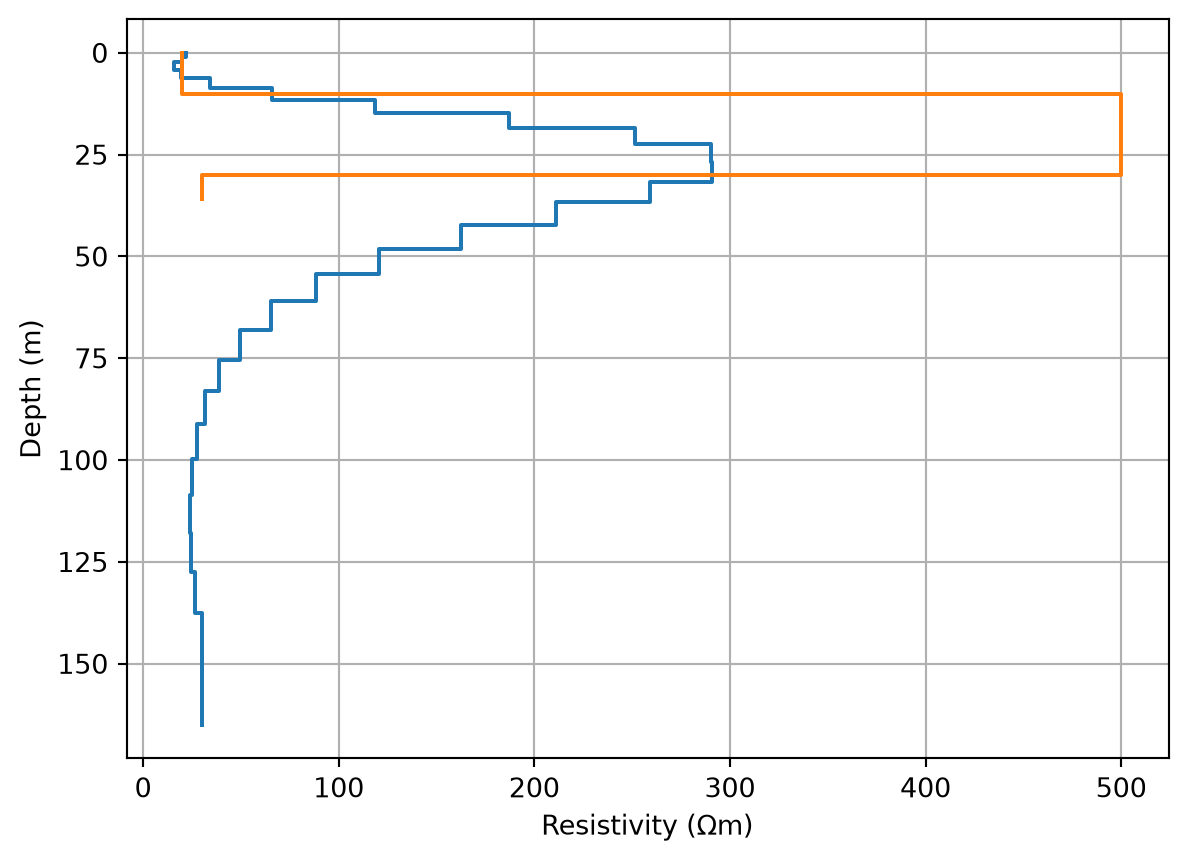
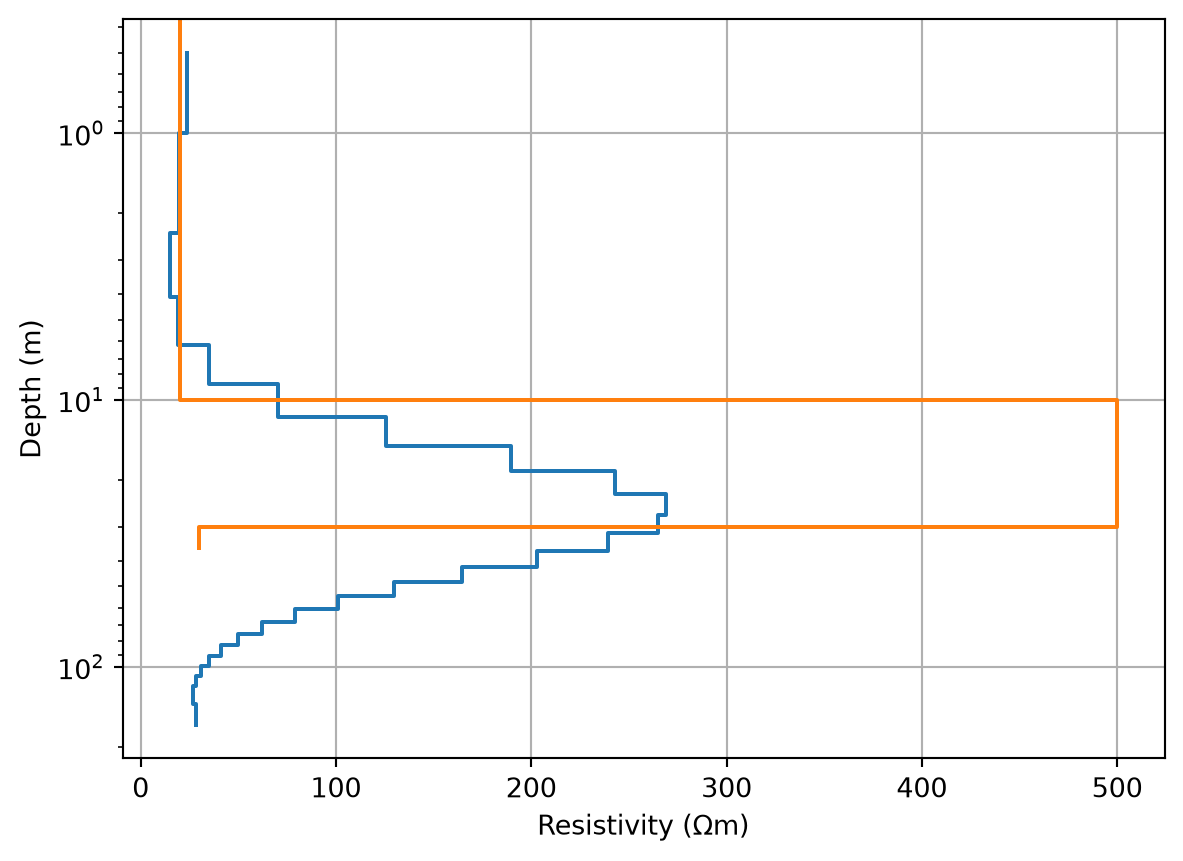
finish VES example with MRM

diff --git a/docs/13_exampleVES.html b/docs/13_exampleVES.html
@@ -351,7 +351,7 @@ window.Quarto = {
 <li><code>VESModelling</code> uses a block discretization of (few) <span class="math inline">\(N\)</span> layer resistivities preceded by N-1 thickness values</li>
 <li><code>VESRhoModelling</code> uses a fixed (many) layer discretization that is adressed by smoothness constraints</li>
 </ul>
-<div id="bf2e42b5" class="cell" data-execution_count="3">
+<div id="5b4cddac" class="cell" data-execution_count="2">
 <details class="code-fold">
 <summary>Show the code</summary>
 <div class="code-copy-outer-scaffold"><div class="sourceCode cell-code" id="cb1"><pre class="sourceCode python code-with-copy"><code class="sourceCode python"><span id="cb1-1"><a href="#cb1-1" aria-hidden="true" tabindex="-1"></a><span class="im">from</span> pygimli.physics.ves <span class="im">import</span> VESModelling, VESRhoModelling</span>
@@ -362,7 +362,7 @@ window.Quarto = {
 <section id="the-synthetic-model" class="level2" data-number="12.1">
 <h2 data-number="12.1" class="anchored" data-anchor-id="the-synthetic-model"><span class="header-section-number">12.1</span> The synthetic model</h2>
 <p>The experiment comprises a VES sounding with AB/2 values between 6m and 1km. The synthetic model consist of a 20m thick bad conductor embedded in rather conductive halfspace with 10m overburden. Gaussian noise with a relative error model of 3% is added to the data.</p>
-<div id="9757c880" class="cell" data-execution_count="4">
+<div id="10307f8d" class="cell" data-execution_count="3">
 <details class="code-fold">
 <summary>Show the code</summary>
 <div class="code-copy-outer-scaffold"><div class="sourceCode cell-code" id="cb2"><pre class="sourceCode python code-with-copy"><code class="sourceCode python"><span id="cb2-1"><a href="#cb2-1" aria-hidden="true" tabindex="-1"></a>ab2 <span class="op">=</span> np.logspace(<span class="fl">0.5</span>, <span class="dv">3</span>, <span class="dv">30</span>)</span>
@@ -374,10 +374,10 @@ window.Quarto = {
 <span id="cb2-7"><a href="#cb2-7" aria-hidden="true" tabindex="-1"></a><span class="bu">print</span>(data)</span></code></pre></div><button title="Copy to Clipboard" class="code-copy-button"><i class="bi"></i></button></div>
 </details>
 <div class="cell-output cell-output-stdout">
-<pre><code>30 [20.079031911664593, 19.887934827460903, 21.014925252610364, 20.85520209476763, 20.898729215173997, 21.435671089464467, 23.37646203101076, 25.585224390738755, 30.724953532972535, 34.15051213815305, 39.55632664569125, 44.49255263072366, 53.020316621050476, 60.06137182826126, 69.96308299417505, 79.81414963031365, 83.66767769588436, 92.4021749333356, 93.28372798017463, 92.65756439031824, 91.99999247378997, 89.97234590623434, 74.9675144829669, 58.97294951816488, 51.04970461511585, 46.63066941282433, 37.9981738249699, 36.71825460105309, 33.28221114450177, 31.18474144383116]</code></pre>
+<pre><code>30 [20.686978036849204, 20.38349679149489, 20.510608338690187, 21.13993028920831, 20.836201776280745, 21.52013435504813, 22.67159048910943, 25.452191975187727, 30.317240592031602, 34.12411845055125, 38.66976454183282, 46.81704566659458, 54.018514020986984, 58.1754347315536, 75.04112290860583, 74.6030663175021, 83.27685330650817, 89.84863271660582, 96.21939380550589, 96.8810732152488, 85.79764752476778, 87.30338561444887, 76.70908525525306, 68.17804577147672, 54.393401041197116, 44.66861039271677, 37.030186258334126, 33.193663610678726, 33.02258474753975, 30.758836877925805]</code></pre>
 </div>
 </div>
-<div id="c30a3a16" class="cell" data-execution_count="5">
+<div id="5c130bfd" class="cell" data-execution_count="4">
 <details class="code-fold">
 <summary>Show the code</summary>
 <div class="code-copy-outer-scaffold"><div class="sourceCode cell-code" id="cb4"><pre class="sourceCode python code-with-copy"><code class="sourceCode python"><span id="cb4-1"><a href="#cb4-1" aria-hidden="true" tabindex="-1"></a>fig, ax <span class="op">=</span> plt.subplots()</span>
@@ -388,13 +388,13 @@ window.Quarto = {
 <div class="cell-output cell-output-display">
 <div>
 <figure class="figure">
-<p><img src="13_exampleVES_files/figure-html/cell-5-output-1.png" width="582" height="414" class="figure-img"></p>
+<p><img src="13_exampleVES_files/figure-html/cell-5-output-1.png" width="573" height="414" class="figure-img"></p>
 </figure>
 </div>
 </div>
 </div>
 <p>The intrinsic model parameters and data are resistivity and apparent resistivity. For both data and model we use a logarithmic transform For computing the Jacobian by a Finite Difference (brute force) approach we write a function taking this into account:</p>
-<div id="96d9db9d" class="cell" data-execution_count="6">
+<div id="8d525965" class="cell" data-execution_count="5">
 <details class="code-fold">
 <summary>Show the code</summary>
 <div class="code-copy-outer-scaffold"><div class="sourceCode cell-code" id="cb5"><pre class="sourceCode python code-with-copy"><code class="sourceCode python"><span id="cb5-1"><a href="#cb5-1" aria-hidden="true" tabindex="-1"></a><span class="kw">def</span> Jacobian(model, f):</span>
@@ -422,7 +422,7 @@ window.Quarto = {
 <p><span class="math display">\[\Delta\vb m = (\vb J^T \vb J + \lambda \vb I)^{-1} (\vb J^\top (\vb d-\vb f(\vb m)))\]</span></p>
 <p>The damping parameter <span class="math inline">\(\lambda\)</span> is for stabilization in the early stage and decreased subsequently.</p>
 <p>We start the inversion with a homogeneous model and compute its Jacobian matrix:</p>
-<div id="cbadcec4" class="cell" data-execution_count="7">
+<div id="fd7cad0c" class="cell" data-execution_count="6">
 <details class="code-fold">
 <summary>Show the code</summary>
 <div class="code-copy-outer-scaffold"><div class="sourceCode cell-code" id="cb6"><pre class="sourceCode python code-with-copy"><code class="sourceCode python"><span id="cb6-1"><a href="#cb6-1" aria-hidden="true" tabindex="-1"></a>model <span class="op">=</span> np.array([<span class="dv">15</span>, <span class="dv">15</span>, <span class="dv">100</span>, <span class="dv">100</span>, <span class="dv">100</span>])</span>
@@ -441,7 +441,7 @@ window.Quarto = {
 <section id="inversion" class="level3" data-number="12.2.1">
 <h3 data-number="12.2.1" class="anchored" data-anchor-id="inversion"><span class="header-section-number">12.2.1</span> Inversion</h3>
 <p>The inversion is then done by solving the damped normal equations in every iteration.</p>
-<div id="ed699f38" class="cell" data-execution_count="8">
+<div id="b9274044" class="cell" data-execution_count="7">
 <details class="code-fold">
 <summary>Show the code</summary>
 <div class="code-copy-outer-scaffold"><div class="sourceCode cell-code" id="cb7"><pre class="sourceCode python code-with-copy"><code class="sourceCode python"><span id="cb7-1"><a href="#cb7-1" aria-hidden="true" tabindex="-1"></a>model <span class="op">=</span> np.array([<span class="dv">15</span>, <span class="dv">15</span>, <span class="dv">100</span>, <span class="dv">100</span>, <span class="dv">100</span>])</span>
@@ -459,16 +459,16 @@ window.Quarto = {
 <span id="cb7-13"><a href="#cb7-13" aria-hidden="true" tabindex="-1"></a><span class="bu">print</span>(model)</span></code></pre></div><button title="Copy to Clipboard" class="code-copy-button"><i class="bi"></i></button></div>
 </details>
 <div class="cell-output cell-output-stdout">
-<pre><code>chi2 =  1101.6649895594985
-chi2 =  56.12897588428405
-chi2 =  1.5981046305596793
-chi2 =  0.9786531701895945
-chi2 =  0.9781134997252262
-[  9.9938894   16.96312767  19.87696463 570.93145147  30.51115708]</code></pre>
+<pre><code>chi2 =  1106.635417512626
+chi2 =  58.802811924731195
+chi2 =  1.957139509651203
+chi2 =  1.3161965419993509
+chi2 =  1.31583670165712
+[ 10.22086153  17.54723813  20.01228196 585.03064113  29.11101175]</code></pre>
 </div>
 </div>
 <p>We plot the data fit and the model along with the synthetic model</p>
-<div id="714e8797" class="cell" data-execution_count="9">
+<div id="5cade664" class="cell" data-execution_count="8">
 <details class="code-fold">
 <summary>Show the code</summary>
 <div class="code-copy-outer-scaffold"><div class="sourceCode cell-code" id="cb9"><pre class="sourceCode python code-with-copy"><code class="sourceCode python"><span id="cb9-1"><a href="#cb9-1" aria-hidden="true" tabindex="-1"></a>fig, ax <span class="op">=</span> plt.subplots(ncols<span class="op">=</span><span class="dv">2</span>)</span>
@@ -485,7 +485,7 @@ chi2 =  0.9781134997252262
 <div class="cell-output cell-output-display">
 <div>
 <figure class="figure">
-<p><img src="13_exampleVES_files/figure-html/cell-9-output-1.png" width="573" height="431" class="figure-img"></p>
+<p><img src="13_exampleVES_files/figure-html/cell-9-output-1.png" width="581" height="431" class="figure-img"></p>
 </figure>
 </div>
 </div>
@@ -494,7 +494,7 @@ chi2 =  0.9781134997252262
 <section id="resolution-and-model-covariance" class="level3" data-number="12.2.2">
 <h3 data-number="12.2.2" class="anchored" data-anchor-id="resolution-and-model-covariance"><span class="header-section-number">12.2.2</span> Resolution and model covariance</h3>
 <p>Let us start with the data resolution matrix</p>
-<div id="89686f7d" class="cell" data-execution_count="10">
+<div id="965e0d17" class="cell" data-execution_count="9">
 <details class="code-fold">
 <summary>Show the code</summary>
 <div class="code-copy-outer-scaffold"><div class="sourceCode cell-code" id="cb10"><pre class="sourceCode python code-with-copy"><code class="sourceCode python"><span id="cb10-1"><a href="#cb10-1" aria-hidden="true" tabindex="-1"></a>JTJ <span class="op">=</span> J.T<span class="op">@</span>J</span>
@@ -511,7 +511,7 @@ chi2 =  0.9781134997252262
 </div>
 <p>The overall information content is 5, i.e.&nbsp;matching the number of resolved parameters. So the individual data are weaker and neighboring AB/2 are highly correlated.</p>
 <p>As for the overdetemined problem the model resolution is perfect, we instead compute the model covariance <span class="math display">\[ MCM = (\vb J^T \vb J + \lambda \vb I)^{-1} \]</span></p>
-<div id="020f2767" class="cell" data-execution_count="11">
+<div id="9d6b3f51" class="cell" data-execution_count="10">
 <details class="code-fold">
 <summary>Show the code</summary>
 <div class="code-copy-outer-scaffold"><div class="sourceCode cell-code" id="cb11"><pre class="sourceCode python code-with-copy"><code class="sourceCode python"><span id="cb11-1"><a href="#cb11-1" aria-hidden="true" tabindex="-1"></a>MCM <span class="op">=</span> np.linalg.inv(JTJ)</span>
@@ -519,7 +519,7 @@ chi2 =  0.9781134997252262
 <span id="cb11-3"><a href="#cb11-3" aria-hidden="true" tabindex="-1"></a>plt.imshow(MCM, cmap<span class="op">=</span><span class="st">"bwr"</span>, vmin<span class="op">=-</span><span class="dv">1</span>, vmax<span class="op">=</span><span class="dv">1</span>)<span class="op">;</span></span></code></pre></div><button title="Copy to Clipboard" class="code-copy-button"><i class="bi"></i></button></div>
 </details>
 <div class="cell-output cell-output-stdout">
-<pre><code>[0.10211948 2.48496178 0.01450942 2.45835981 0.02151377]</code></pre>
+<pre><code>[0.10127431 2.50155509 0.01433602 2.47689182 0.02232051]</code></pre>
 </div>
 <div class="cell-output cell-output-display">
 <div>
@@ -535,7 +535,7 @@ chi2 =  0.9781134997252262
 <section id="smoothness-constrained-inversion" class="level2" data-number="12.3">
 <h2 data-number="12.3" class="anchored" data-anchor-id="smoothness-constrained-inversion"><span class="header-section-number">12.3</span> Smoothness-constrained inversion</h2>
 <p>Here we use a predefined geometry (layers) with increasing layer thickness. This is passed to the forward operator in the initialization so that only the resistivity vector is passed to the forward routine. We start with a homogeneous resistivity and compute the Jacobian matrix</p>
-<div id="3facbde5" class="cell" data-execution_count="12">
+<div id="580ae6cf" class="cell" data-execution_count="11">
 <details class="code-fold">
 <summary>Show the code</summary>
 <div class="code-copy-outer-scaffold"><div class="sourceCode cell-code" id="cb13"><pre class="sourceCode python code-with-copy"><code class="sourceCode python"><span id="cb13-1"><a href="#cb13-1" aria-hidden="true" tabindex="-1"></a>thk <span class="op">=</span> np.linspace(<span class="dv">1</span>, <span class="dv">10</span>, <span class="dv">25</span>)</span>
@@ -546,7 +546,7 @@ chi2 =  0.9781134997252262
 </details>
 <div class="cell-output cell-output-stderr">
 <div class="ansi-escaped-output">
-<pre>08/07/26 - 18:44:30 - pyGIMLi - <span class="ansi-green-fg">INFO</span> - Found 1 regions.
+<pre>15/07/26 - 13:36:50 - pyGIMLi - <span class="ansi-green-fg">INFO</span> - Found 1 regions.
 </pre>
 </div>
 </div>
@@ -564,7 +564,7 @@ chi2 =  0.9781134997252262
 <p>In the inversion, we use an explicit regularization using a roughness (gradient) operator <span class="math inline">\(\vb C\)</span>. In every iteration, we solve the regularized normal equation.</p>
 <p><span class="math display">\[\Delta\vb m = (\vb J^T \vb J + \lambda \vb C^\top \vb C)^{-1} (\vb J^\top (\vb d-\vb f(\vb m)) - \lambda \vb C^\top \vb C \vb m)\]</span></p>
 <p>Note the last term that arises when operating on the model itself and not only the update, i.e.&nbsp;the roughness of the model is taken into account.</p>
-<div id="09a97ca2" class="cell" data-execution_count="13">
+<div id="604485da" class="cell" data-execution_count="12">
 <details class="code-fold">
 <summary>Show the code</summary>
 <div class="code-copy-outer-scaffold"><div class="sourceCode cell-code" id="cb14"><pre class="sourceCode python code-with-copy"><code class="sourceCode python"><span id="cb14-1"><a href="#cb14-1" aria-hidden="true" tabindex="-1"></a>res <span class="op">=</span> np.ones(<span class="bu">len</span>(thk)<span class="op">+</span><span class="dv">1</span>) <span class="op">*</span> <span class="dv">100</span></span>
@@ -580,33 +580,34 @@ chi2 =  0.9781134997252262
 <span id="cb14-11"><a href="#cb14-11" aria-hidden="true" tabindex="-1"></a>    res <span class="op">=</span> np.exp(np.log(res) <span class="op">+</span> dm)</span></code></pre></div><button title="Copy to Clipboard" class="code-copy-button"><i class="bi"></i></button></div>
 </details>
 <div class="cell-output cell-output-stdout">
-<pre><code>chi2 =  1101.664989559498
-chi2 =  16.49359746792341
-chi2 =  2.9867655691209722
-chi2 =  1.3384699651193706
-chi2 =  1.111070115454615
-chi2 =  1.032985507960912</code></pre>
+<pre><code>chi2 =  1106.6354175126257
+chi2 =  16.773504720795227
+chi2 =  2.9549933376315503
+chi2 =  1.3987277558308926
+chi2 =  1.2182786532544772
+chi2 =  1.1589954810460468</code></pre>
 </div>
 </div>
 <p>We use the function <code>drawModel1D</code> to plot the result along with the synthetic model. Note the two modes: a) specifying thickness and values, or b) a complete model vector with both included.</p>
-<div id="0536927c" class="cell" data-execution_count="14">
+<div id="dd6d562d" class="cell" data-execution_count="13">
 <details class="code-fold">
 <summary>Show the code</summary>
 <div class="code-copy-outer-scaffold"><div class="sourceCode cell-code" id="cb16"><pre class="sourceCode python code-with-copy"><code class="sourceCode python"><span id="cb16-1"><a href="#cb16-1" aria-hidden="true" tabindex="-1"></a>fig, ax <span class="op">=</span> plt.subplots()</span>
-<span id="cb16-2"><a href="#cb16-2" aria-hidden="true" tabindex="-1"></a>drawModel1D(ax, thk, res)</span>
+<span id="cb16-2"><a href="#cb16-2" aria-hidden="true" tabindex="-1"></a>drawModel1D(ax, thk, res, plot<span class="op">=</span><span class="st">"semilogy"</span>)</span>
 <span id="cb16-3"><a href="#cb16-3" aria-hidden="true" tabindex="-1"></a>drawModel1D(ax, model<span class="op">=</span>modelSynth)</span>
 <span id="cb16-4"><a href="#cb16-4" aria-hidden="true" tabindex="-1"></a>ax.invert_yaxis()</span></code></pre></div><button title="Copy to Clipboard" class="code-copy-button"><i class="bi"></i></button></div>
 </details>
 <div class="cell-output cell-output-display">
 <div>
 <figure class="figure">
-<p><img src="13_exampleVES_files/figure-html/cell-14-output-1.png" width="594" height="431" class="figure-img"></p>
+<p><img src="13_exampleVES_files/figure-html/cell-14-output-1.png" width="592" height="431" class="figure-img"></p>
 </figure>
 </div>
 </div>
 </div>
-<p>We see that the upper boundary is resolved well, but the lower boundary is smeared, a typical problem in smoothness-constrained inversion. As above, we compute the model covariance:</p>
-<div id="0a5a6708" class="cell" data-execution_count="15">
+<p>We see that the upper boundary is resolved well, but the lower boundary is smeared, a typical problem in smoothness-constrained inversion. The maximum is within the synthetic layer, but its center point moves to larger depths (where the resolution decreases). Below the smeared good conductor there is a decrease beyond the synthetic value of 30 Ohmm, before the correct value is reached for the last layer. These compensation artifacts are also known to appear.</p>
+<p>As above, we compute the model covariance:</p>
+<div id="71df1474" class="cell" data-execution_count="14">
 <details class="code-fold">
 <summary>Show the code</summary>
 <div class="code-copy-outer-scaffold"><div class="sourceCode cell-code" id="cb17"><pre class="sourceCode python code-with-copy"><code class="sourceCode python"><span id="cb17-1"><a href="#cb17-1" aria-hidden="true" tabindex="-1"></a>JTJ <span class="op">=</span> J.T<span class="op">@</span>J</span>
@@ -616,11 +617,11 @@ chi2 =  1.032985507960912</code></pre>
 <span id="cb17-5"><a href="#cb17-5" aria-hidden="true" tabindex="-1"></a><span class="bu">print</span>(var)</span></code></pre></div><button title="Copy to Clipboard" class="code-copy-button"><i class="bi"></i></button></div>
 </details>
 <div class="cell-output cell-output-stdout">
-<pre><code>[0.05703484 0.04074339 0.05113864 0.05526703 0.06584833 0.07987187
- 0.09111868 0.09699168 0.097535   0.09450402 0.09079537 0.08945533
- 0.09221473 0.09871346 0.10727745 0.11615479 0.12409426 0.13036127
- 0.13457292 0.13651619 0.13596593 0.13247256 0.12506101 0.11165307
- 0.08720612 0.02265353]</code></pre>
+<pre><code>[0.05733918 0.04019894 0.05047145 0.05484166 0.06683396 0.08122538
+ 0.09193584 0.09735016 0.0981668  0.09619235 0.09368139 0.09267707
+ 0.09436002 0.09876353 0.1050786  0.11222271 0.11923066 0.12537353
+ 0.1301187  0.13302789 0.1336267  0.13123584 0.12470726 0.11186198
+ 0.08759044 0.022049  ]</code></pre>
 </div>
 <div class="cell-output cell-output-display">
 <div>
@@ -630,12 +631,12 @@ chi2 =  1.032985507960912</code></pre>
 </div>
 </div>
 </div>
-<p>We have variances (of the logarithm, i.e.&nbsp;relative accuracies) in the order of 10% and can use them to have some upper and lower boundaries.</p>
-<div id="3c5107dd" class="cell" data-execution_count="16">
+<p>We have variances (of the logarithm, i.e.&nbsp;relative accuracies) in the order of 10% and can use them to plot some upper and lower resistivity bounds.</p>
+<div id="04477cf3" class="cell" data-execution_count="15">
 <details class="code-fold">
 <summary>Show the code</summary>
 <div class="code-copy-outer-scaffold"><div class="sourceCode cell-code" id="cb19"><pre class="sourceCode python code-with-copy"><code class="sourceCode python"><span id="cb19-1"><a href="#cb19-1" aria-hidden="true" tabindex="-1"></a>fig, ax <span class="op">=</span> plt.subplots()</span>
-<span id="cb19-2"><a href="#cb19-2" aria-hidden="true" tabindex="-1"></a>drawModel1D(ax, thk, res)</span>
+<span id="cb19-2"><a href="#cb19-2" aria-hidden="true" tabindex="-1"></a>drawModel1D(ax, thk, res, plot<span class="op">=</span><span class="st">"semilogy"</span>)</span>
 <span id="cb19-3"><a href="#cb19-3" aria-hidden="true" tabindex="-1"></a>drawModel1D(ax, thk, res<span class="op">*</span>(<span class="dv">1</span><span class="op">+</span>var), color<span class="op">=</span><span class="st">"C0"</span>, ls<span class="op">=</span><span class="st">"--"</span>)</span>
 <span id="cb19-4"><a href="#cb19-4" aria-hidden="true" tabindex="-1"></a>drawModel1D(ax, thk, res<span class="op">*</span>(<span class="dv">1</span><span class="op">-</span>var), color<span class="op">=</span><span class="st">"C0"</span>, ls<span class="op">=</span><span class="st">"--"</span>)</span>
 <span id="cb19-5"><a href="#cb19-5" aria-hidden="true" tabindex="-1"></a>drawModel1D(ax, model<span class="op">=</span>modelSynth)</span>
@@ -644,13 +645,13 @@ chi2 =  1.032985507960912</code></pre>
 <div class="cell-output cell-output-display">
 <div>
 <figure class="figure">
-<p><img src="13_exampleVES_files/figure-html/cell-16-output-1.png" width="594" height="431" class="figure-img"></p>
+<p><img src="13_exampleVES_files/figure-html/cell-16-output-1.png" width="592" height="431" class="figure-img"></p>
 </figure>
 </div>
 </div>
 </div>
 <p>We can also compute the model resolution matrix</p>
-<div id="6ced1aea" class="cell" data-execution_count="17">
+<div id="4f219ce2" class="cell" data-execution_count="16">
 <details class="code-fold">
 <summary>Show the code</summary>
 <div class="code-copy-outer-scaffold"><div class="sourceCode cell-code" id="cb20"><pre class="sourceCode python code-with-copy"><code class="sourceCode python"><span id="cb20-1"><a href="#cb20-1" aria-hidden="true" tabindex="-1"></a>MRM <span class="op">=</span> np.linalg.inv(JTJ <span class="op">+</span> CTC<span class="op">*</span>lam) <span class="op">@</span> (JTJ)</span>
@@ -664,7 +665,7 @@ chi2 =  1.032985507960912</code></pre>
 </div>
 </div>
 </div>
-<p>showing how much the model parameters correlate with each other.</p>
+<p>showing how much the model parameters correlate with each other. Note that even though <code>JTJ</code> and <code>CTC</code> are symmetric, the model resolution matrix is not necessarily symmetric. Every column shows how a single anomaly in the real world is projected into our model estimate, whereas every row tells where the information in one cell can come from. This is most visible for the last layer which is itself well resolved, but projects into the weakly resolved layers above. For a better balance of the model parameters, the layer thicknesses should probably be more increased with depth.</p>
 
 
 </section>
